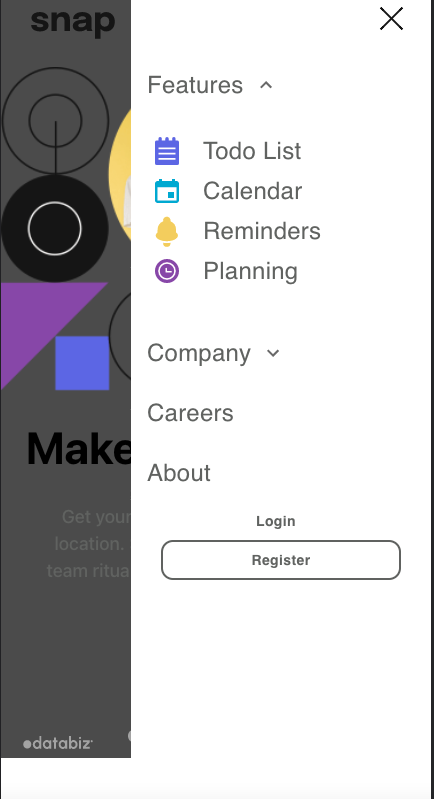
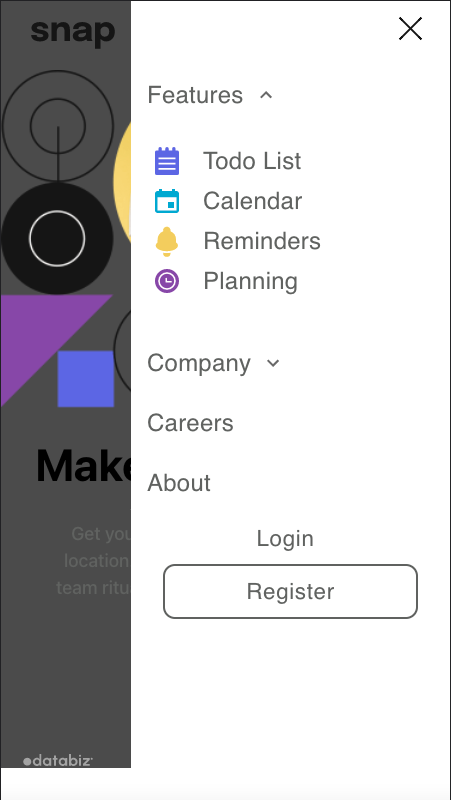
replaced images adjusted css for login/register buttons

diff --git a/src/components/navBar/index.jsx b/src/components/navBar/index.jsx
@@ -370,7 +370,8 @@ const LoginButton = styled(Button)`
   }
   @media screen and (max-width: 450px) {
     color: #6b6d6b !important;
-    font-weight: 600 !important;
+    font-weight: 500 !important;
+    font-size: 1.4rem !important;
   }
 `;
 
@@ -387,7 +388,8 @@ const RegisterButton = styled(Button)`
     width: 80%;
     color: #6b6d6b !important;
     border: 2px solid #6b6d6b !important;
-    font-weight: 600 !important;
+    font-weight: 500 !important;
+    font-size: 1.4rem !important;
   }
 `;
 
